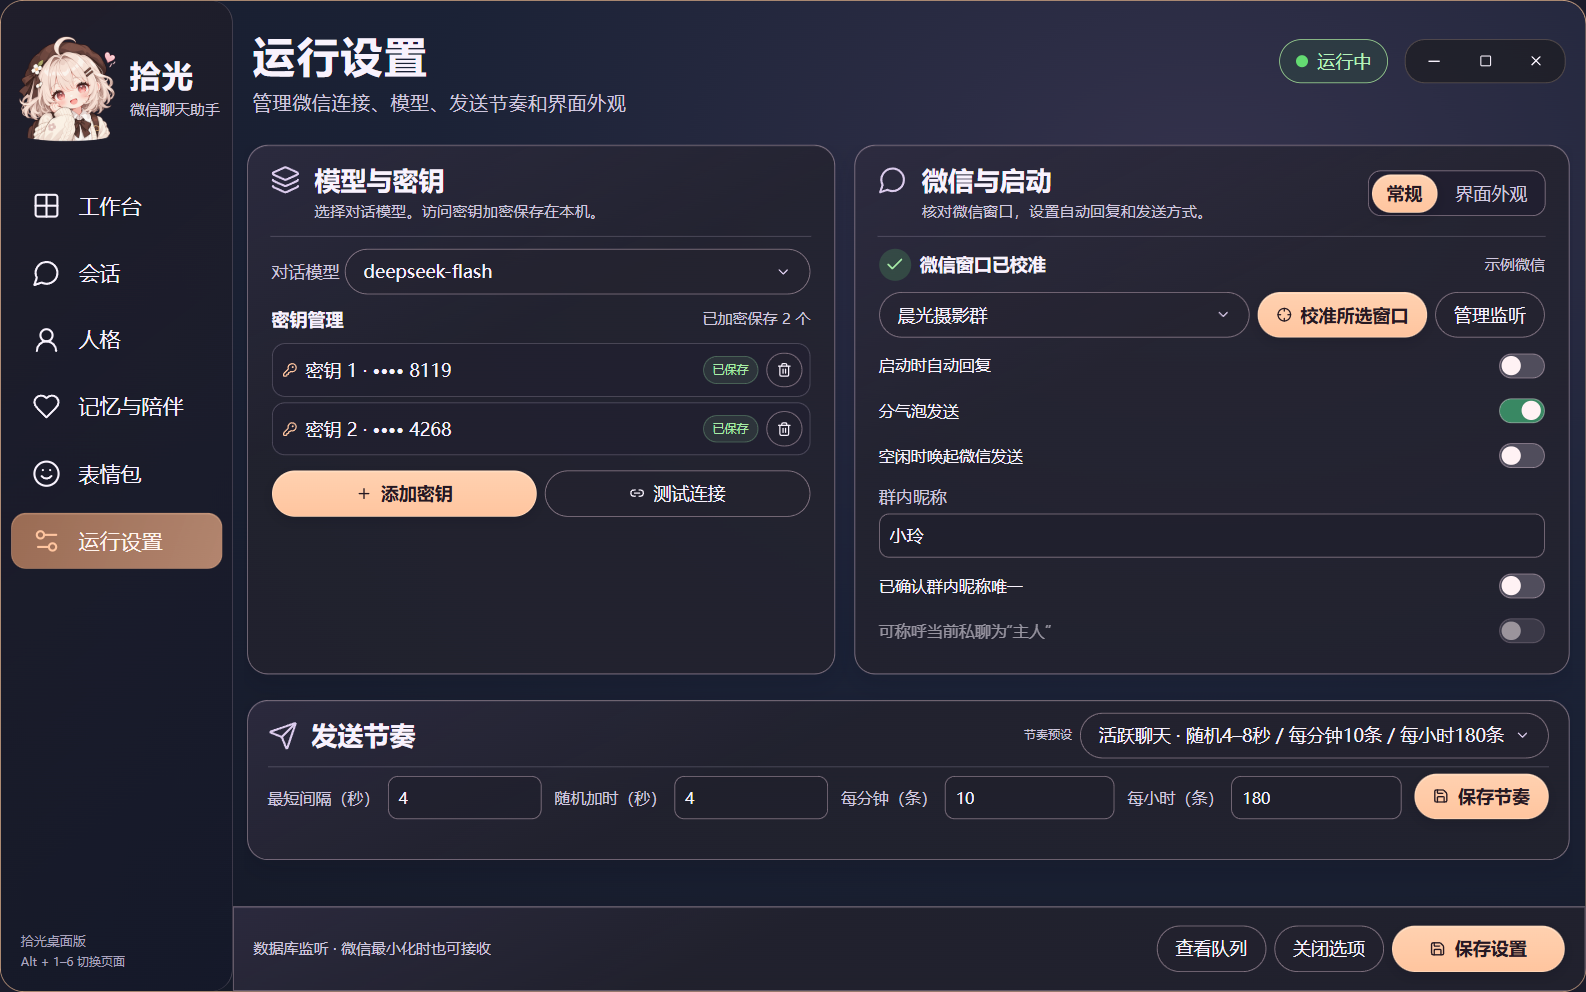
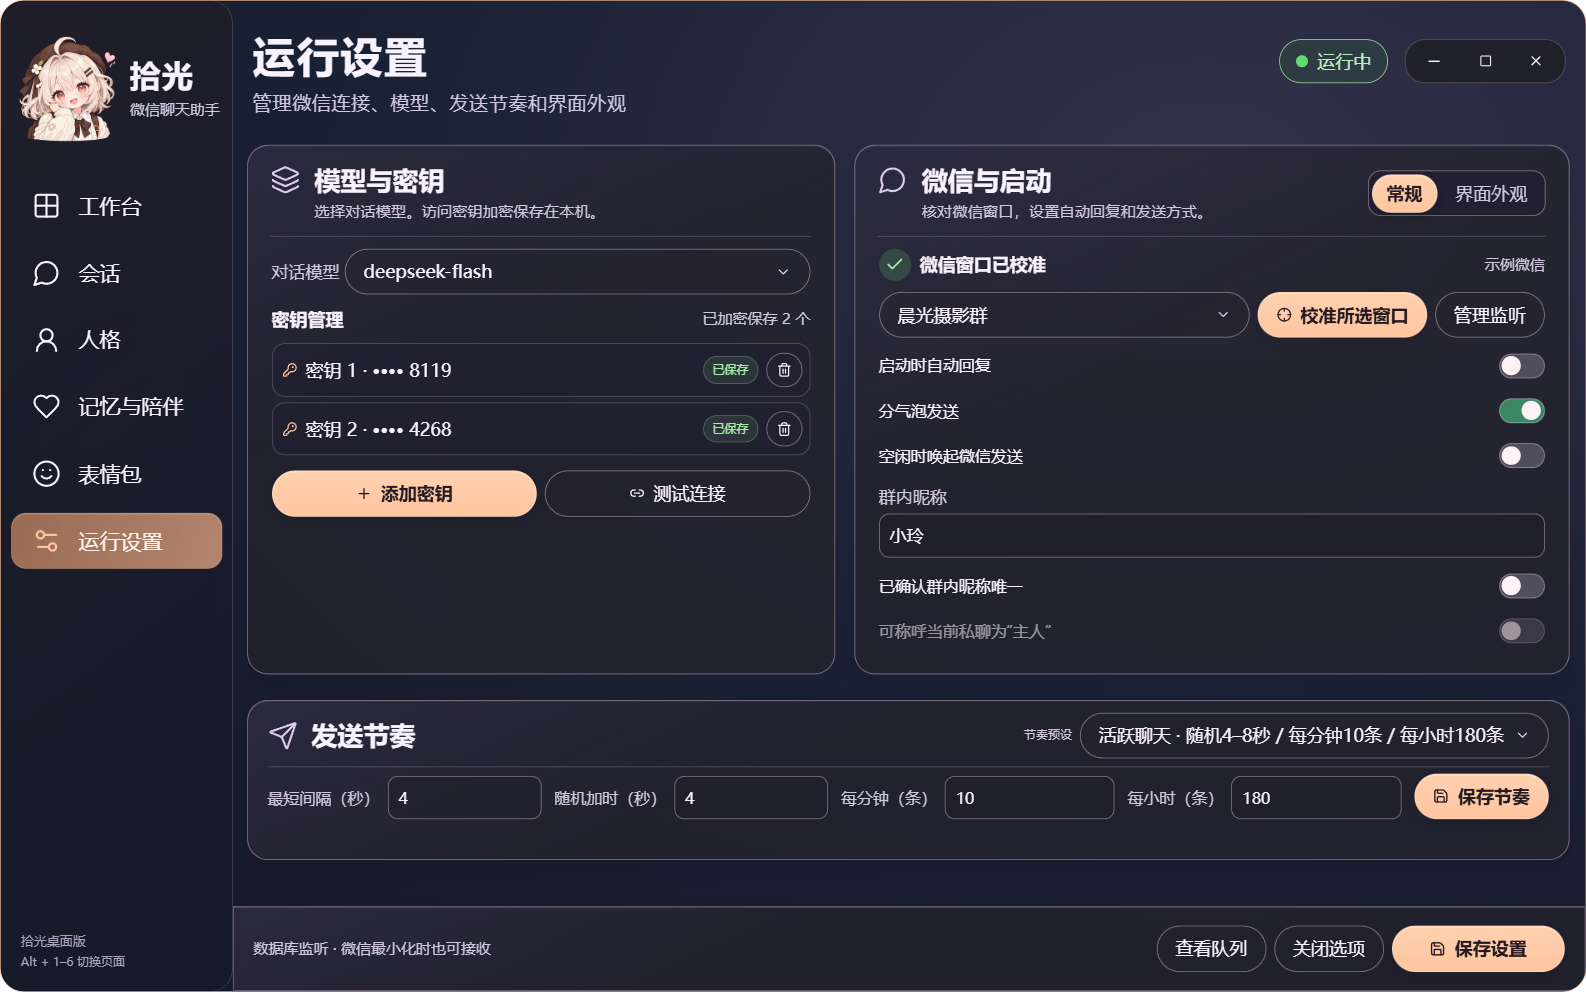
Remove white edges from rounded desktop windows

diff --git a/desktop/src/styles.css b/desktop/src/styles.css
@@ -25,7 +25,7 @@
   --shade: rgb(31 31 43 / .62);
   --radius: 21px;
   --ease: cubic-bezier(.22, .75, .25, 1);
-  background: #1b1c2b;
+  background: transparent;
   color: var(--ink);
 }
 

diff --git a/README.md b/README.md
@@ -10,7 +10,7 @@
 
 **v0.3.1** 在工作台发送队列中增加了按会话翻阅已确认回执的功能。待发队列和回执历史分别翻页。
 
-**v0.3.3** 微信校准可恢复已打开的最小化窗口，绑定完成后显示实际的会话状态。桌面窗口使用原生圆角，主要确认操作固定在各自面板底部。「运行设置 → 界面外观」可同步调节侧栏和卡片的 0–100% 透明度，也可在保持窗口尺寸的情况下缩放内容。调整后点「保存外观」，下次打开会恢复设置。
+**v0.3.3** 微信校准可恢复已打开的最小化窗口，绑定完成后显示实际的会话状态。主窗口、校准窗和独立弹窗使用透明圆角。主要确认操作固定在各自面板底部。「运行设置 → 界面外观」可同步调节侧栏和卡片的 0–100% 透明度，也可在保持窗口尺寸的情况下缩放内容。调整后点「保存外观」，下次打开会恢复设置。
 
 [下载 Windows x64 安装包与校验值](https://github.com/GGBond2424648901/shiguang-wechat-assistant/releases/tag/v0.3.3)
 
@@ -105,6 +105,8 @@ v0.2.14 起，常驻后台会自动检测微信换号，关闭或最小化助手
 下方是 Windows 应用的实机截图，使用隔离示例数据来展示控件。前面的微信气泡来自历史真实收发。文件摘要、拍摄方式和遮挡记录见 [截图来源](docs/screenshots/provenance.json)。
 
 ![独立会话规则、表情偏好与窗口绑定](docs/screenshots/desktop-sessions.png)
+
+![校准微信窗口的独立圆角界面](docs/screenshots/desktop-calibration.png)
 
 ![人格模块启停、排序、编辑与生效稿预览](docs/screenshots/desktop-persona.png)
 
